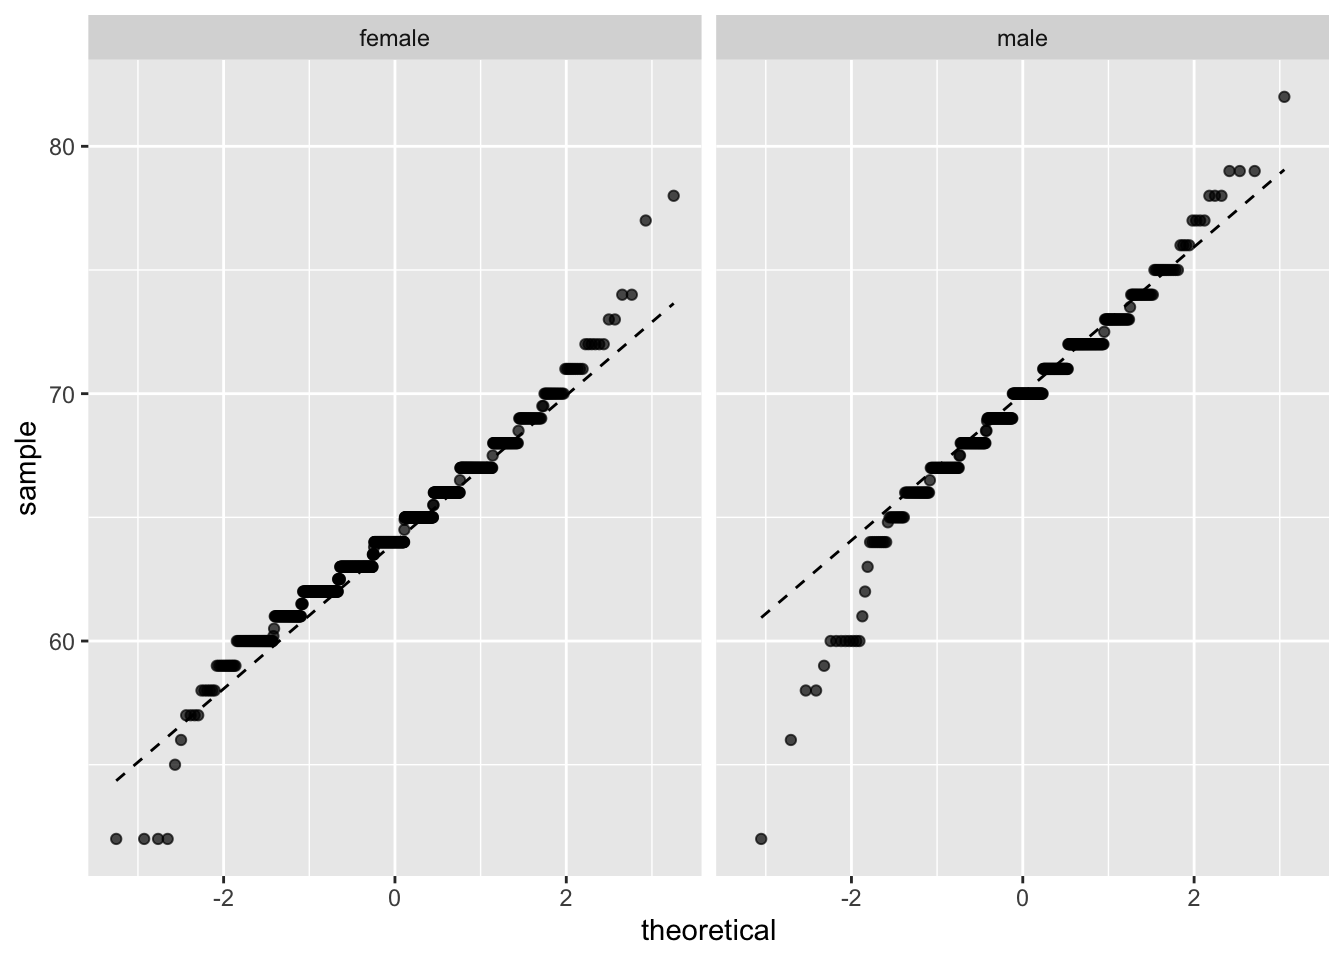
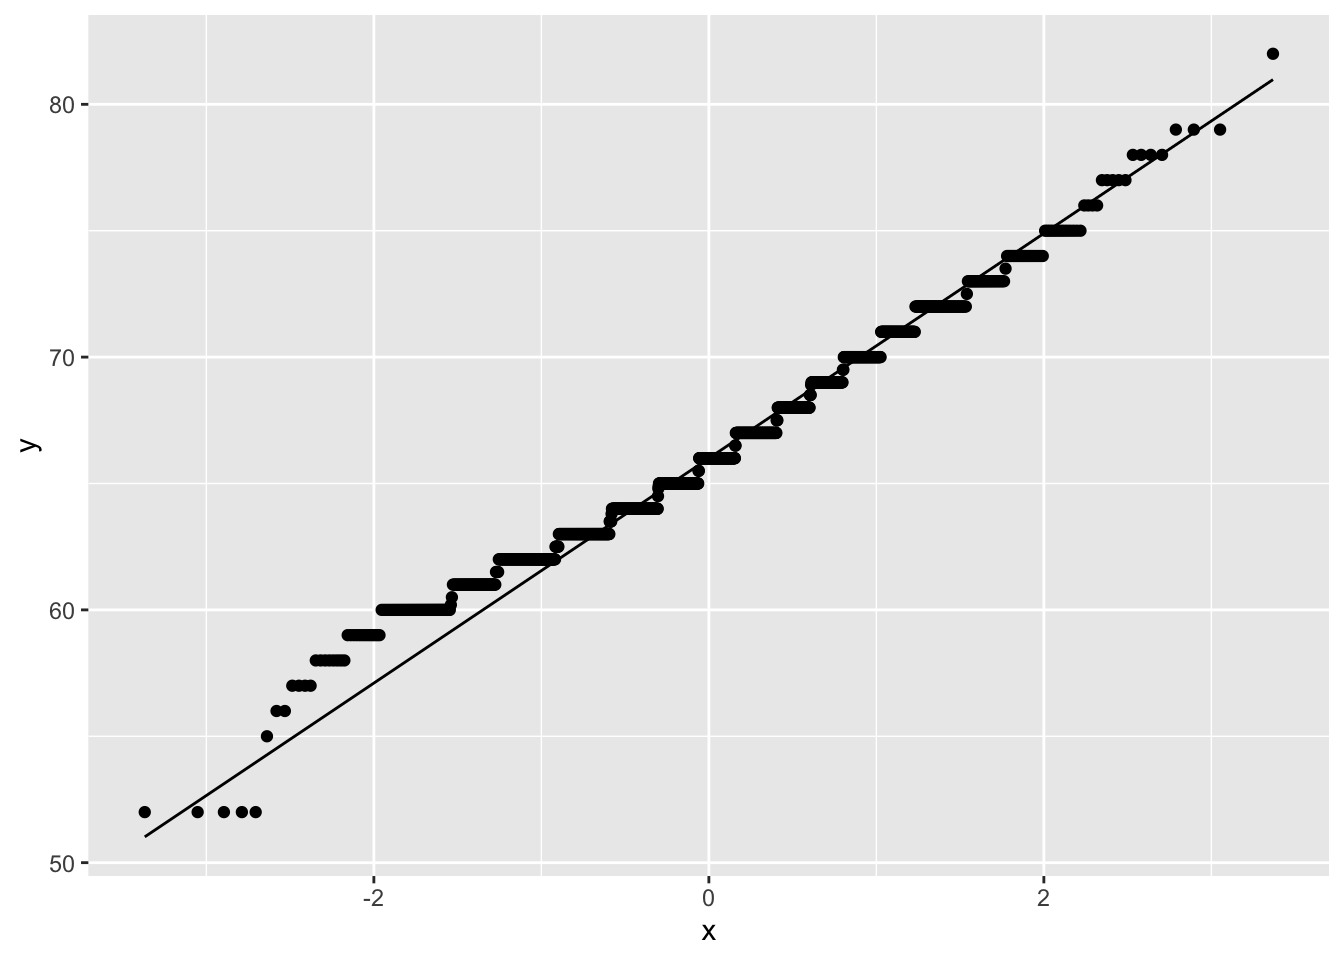
update

diff --git a/content/post/2021-06-22-normal-by-nature-an-annotated-example-of-a-normally-distributed-variable/index.html b/content/post/2021-06-22-normal-by-nature-an-annotated-example-of-a-normally-distributed-variable/index.html
@@ -1,7 +1,7 @@
 ---
 title: Normal by nature? An annotated example of a normally distributed variable
 author: Sebastian Sauer
-draft: TRUE
+draft: true
 date: '2021-06-22'
 slug: normal-by-nature-an-annotated-example-of-a-normally-distributed-variable
 categories:
@@ -15,29 +15,15 @@ tags:
 
 <div id="setup" class="section level1">
 <h1>Setup</h1>
-<pre class="r"><code>library(tidyverse)</code></pre>
-<pre><code>## ── Attaching packages ─────────────────────────────────────── tidyverse 1.3.1 ──</code></pre>
-<pre><code>## ✓ ggplot2 3.3.3     ✓ purrr   0.3.4
-## ✓ tibble  3.1.2     ✓ dplyr   1.0.6
-## ✓ tidyr   1.1.3     ✓ stringr 1.4.0
-## ✓ readr   1.4.0     ✓ forcats 0.5.1</code></pre>
-<pre><code>## ── Conflicts ────────────────────────────────────────── tidyverse_conflicts() ──
-## x dplyr::filter() masks stats::filter()
-## x dplyr::lag()    masks stats::lag()</code></pre>
-<pre class="r"><code>library(ggpubr)</code></pre>
+<pre class="r"><code>library(tidyverse)
+library(ggpubr)
+library(ggh4x)</code></pre>
 <pre class="r"><code>d &lt;- read_csv(&quot;https://vincentarelbundock.github.io/Rdatasets/csv/openintro/speed_gender_height.csv&quot;)</code></pre>
-<pre><code>## Warning: Missing column names filled in: &#39;X1&#39; [1]</code></pre>
-<pre><code>## 
-## ── Column specification ────────────────────────────────────────────────────────
-## cols(
-##   X1 = col_double(),
-##   speed = col_double(),
-##   gender = col_character(),
-##   height = col_double()
-## )</code></pre>
 </div>
 <div id="histogram-of-height" class="section level1">
 <h1>Histogram of height</h1>
+<div id="for-each-sex-group-separately" class="section level2">
+<h2>For each sex group separately</h2>
 <pre class="r"><code>d2 &lt;-
   d |&gt; 
   select(-gender)</code></pre>
@@ -70,38 +56,54 @@ d_summary</code></pre>
                 args = list(mean = filter(d_summary, gender == &quot;male&quot;)$height_m,
                             sd = filter(d_summary, gender == &quot;male&quot;)$height_sd)) +
   scale_fill_discrete()</code></pre>
-<pre><code>## `stat_bin()` using `bins = 30`. Pick better value with `binwidth`.</code></pre>
-<pre><code>## Warning: Removed 5 rows containing non-finite values (stat_bin).</code></pre>
-<pre><code>## `stat_bin()` using `bins = 30`. Pick better value with `binwidth`.</code></pre>
-<pre><code>## Warning: Removed 10 rows containing non-finite values (stat_bin).</code></pre>
-<p><img src="{{< blogdown/postref >}}index_files/figure-html/unnamed-chunk-5-1.png" width="672" /></p>
-<p>A bit more beautifully perhaps:</p>
+<p><img src="unnamed-chunk-5-1.png" width="480" /></p>
+<p>Let’s overlay the empirical densities:</p>
 <pre class="r"><code>gghistogram(d,
             x = &quot;height&quot;, 
             fill = &quot;gender&quot;,
             rug = TRUE,
             add_density = TRUE,
-            add = &quot;mean&quot;)</code></pre>
-<pre><code>## Warning: Using `bins = 30` by default. Pick better value with the argument
-## `bins`.</code></pre>
-<pre><code>## Warning: Removed 5 rows containing non-finite values (stat_bin).</code></pre>
-<pre><code>## Warning: Removed 5 rows containing non-finite values (stat_density).</code></pre>
-<p><img src="{{< blogdown/postref >}}index_files/figure-html/unnamed-chunk-6-1.png" width="672" /></p>
+            add = &quot;mean&quot;) +
+  scale_fill_brewer(type = &quot;qual&quot;,
+                    palette = &quot;Set1&quot;) +
+  labs(caption = &quot;n = 1325&quot;)</code></pre>
+<p><img src="unnamed-chunk-6-1.png" width="480" /></p>
 </div>
-<div id="for-the-whole-sample" class="section level1">
-<h1>For the whole sample</h1>
+<div id="for-the-whole-sample" class="section level2">
+<h2>For the whole sample</h2>
 <p>I.e,. with groups (gender) removed:</p>
 <pre class="r"><code>gghistogram(d,
             x = &quot;height&quot;,
             add_density = TRUE,
             add = &quot;mean&quot;)</code></pre>
-<pre><code>## Warning: Using `bins = 30` by default. Pick better value with the argument
-## `bins`.</code></pre>
-<pre><code>## Warning: geom_vline(): Ignoring `mapping` because `xintercept` was provided.</code></pre>
-<pre><code>## Warning: geom_vline(): Ignoring `data` because `xintercept` was provided.</code></pre>
-<pre><code>## Warning: Removed 5 rows containing non-finite values (stat_bin).</code></pre>
-<pre><code>## Warning: Removed 5 rows containing non-finite values (stat_density).</code></pre>
-<p><img src="{{< blogdown/postref >}}index_files/figure-html/unnamed-chunk-7-1.png" width="672" /></p>
+<p><img src="unnamed-chunk-7-1.png" width="480" /></p>
+<pre class="r"><code>ggplot(d, aes(height)) +
+  geom_density() +
+  stat_theodensity(colour = &quot;red&quot;) +
+  facet_wrap(~ gender)</code></pre>
+<pre><code>## $start.arg
+## $start.arg$mean
+## [1] 64.34442
+## 
+## $start.arg$sd
+## [1] 2.983323
+## 
+## 
+## $fix.arg
+## NULL
+## 
+## $start.arg
+## $start.arg$mean
+## [1] 69.66787
+## 
+## $start.arg$sd
+## [1] 3.548706
+## 
+## 
+## $fix.arg
+## NULL</code></pre>
+<p><img src="unnamed-chunk-8-1.png" width="480" /></p>
+</div>
 </div>
 <div id="checking-the-fit-to-a-normal-curve" class="section level1">
 <h1>Checking the fit to a normal curve</h1>
@@ -112,9 +114,21 @@ d_summary</code></pre>
   aes(sample = height) +
   geom_qq() +
   stat_qq_line()</code></pre>
-<pre><code>## Warning: Removed 5 rows containing non-finite values (stat_qq).</code></pre>
-<pre><code>## Warning: Removed 5 rows containing non-finite values (stat_qq_line).</code></pre>
-<p><img src="{{< blogdown/postref >}}index_files/figure-html/unnamed-chunk-8-1.png" width="672" /></p>
+<p><img src="unnamed-chunk-9-1.png" width="480" /></p>
+<pre class="r"><code>ggplot(d, aes(height)) +
+  geom_density() +
+  stat_theodensity(colour = &quot;red&quot;)</code></pre>
+<pre><code>## $start.arg
+## $start.arg$mean
+## [1] 66.12697
+## 
+## $start.arg$sd
+## [1] 4.055697
+## 
+## 
+## $fix.arg
+## NULL</code></pre>
+<p><img src="unnamed-chunk-10-1.png" width="480" /></p>
 </div>
 <div id="for-each-gender-group-separately" class="section level2">
 <h2>For each gender (group) separately</h2>
@@ -124,8 +138,41 @@ d_summary</code></pre>
   geom_qq(alpha = .7) +
   facet_wrap(~ gender) +
   stat_qq_line(linetype = &quot;dashed&quot;)</code></pre>
-<pre><code>## Warning: Removed 5 rows containing non-finite values (stat_qq).</code></pre>
-<pre><code>## Warning: Removed 5 rows containing non-finite values (stat_qq_line).</code></pre>
-<p><img src="{{< blogdown/postref >}}index_files/figure-html/unnamed-chunk-9-1.png" width="672" /></p>
+<p><img src="unnamed-chunk-11-1.png" width="480" /></p>
+<pre class="r"><code>ggplot(d, aes(height)) +
+  geom_density() +
+  stat_theodensity(colour = &quot;red&quot;) +
+  facet_wrap(~ gender)</code></pre>
+<pre><code>## $start.arg
+## $start.arg$mean
+## [1] 64.34442
+## 
+## $start.arg$sd
+## [1] 2.983323
+## 
+## 
+## $fix.arg
+## NULL
+## 
+## $start.arg
+## $start.arg$mean
+## [1] 69.66787
+## 
+## $start.arg$sd
+## [1] 3.548706
+## 
+## 
+## $fix.arg
+## NULL</code></pre>
+<p><img src="unnamed-chunk-12-1.png" width="480" /></p>
 </div>
+</div>
+<div id="the-mystic-bell-shape" class="section level1">
+<h1>The mystic bell shape</h1>
+<pre class="r"><code>ggplot(data = data.frame(x = c(-3, 3)), 
+       aes(x)) +
+  stat_function(fun = dnorm, n = 100, args = list(mean = 0, sd = 1)) + ylab(&quot;&quot;) +
+  scale_y_continuous(breaks = NULL) +
+  theme_minimal()</code></pre>
+<p><img src="unnamed-chunk-13-1.png" width="480" /></p>
 </div>
